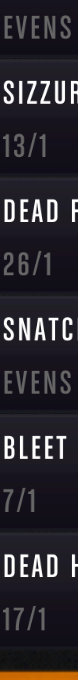
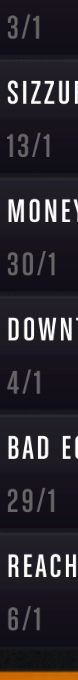
fixed some stuff

diff --git a/inner_track.py b/inner_track.py
@@ -5,20 +5,24 @@ import input
 
 
 def find_odds():
-    odds = range(1, 31)
-    shot = screenshot(region=(184, 354, 78, 680))
+    pre_odds = list(range(1, 31))
+    pre_odds.pop(10)
+    print(pre_odds)
+    odds = pre_odds
+    shot = screenshot(region=(180, 354, 78, 680))
     shot.save('./pics/horses.png')
     # Checks each pic of odds 1/1, 2/1, etc
     horses = []
     for n in odds:
-        add_horse = True
-        for odd in list(locateAll('./odds/'+str(n)+'.png', './pics/horses.png', confidence=.9)):
+        for odd in list(locateAll('./odds/'+str(n)+'.png', './pics/horses.png', confidence=.92)):
+            add_horse = True
             for horse in horses:
                 if abs(horse[1][1] - (odd.top + 364)) < 30:
                     add_horse = False
             if add_horse is True:
-                adjusted_odd = (odd.left+184, odd.top+354, odd.width, odd.height)
+                adjusted_odd = (odd.left+180, odd.top+354, odd.width, odd.height)
                 horses.append((n, adjusted_odd))
+                print(str(n))
     # Calculates percentage from the present contestant's odds and sums them all
     high = horses[0]
     total_odds = 0
@@ -29,7 +33,7 @@ def find_odds():
         total_odds += percent
     # Ensures no contestant was missed
     if len(horses) != 6:
-        raise Exception
+        return high, 322
     return high, total_odds
 
 
@@ -37,6 +41,7 @@ def enter_betting_menu():
     p1 = Point(random.randrange(1206, 1678), random.randrange(867, 951))
     moveTo(p1.x, p1.y)
     input.enter()
+    time.sleep(.1)
 
 
 def select_best_odds():
@@ -71,13 +76,13 @@ def back_to_starting_screen():
 def main():
     while True:
         if keyboard.is_pressed('1'):
-            print('T minus 5 seconds')
             break
-    time.sleep(5)
+    time.sleep(1)
 
     while not keyboard.is_pressed('0'):
         enter_betting_menu()
         total_odds = select_best_odds()
+        print(str(total_odds))
         adjust_and_place_bet(total_odds)
         back_to_starting_screen()
 
